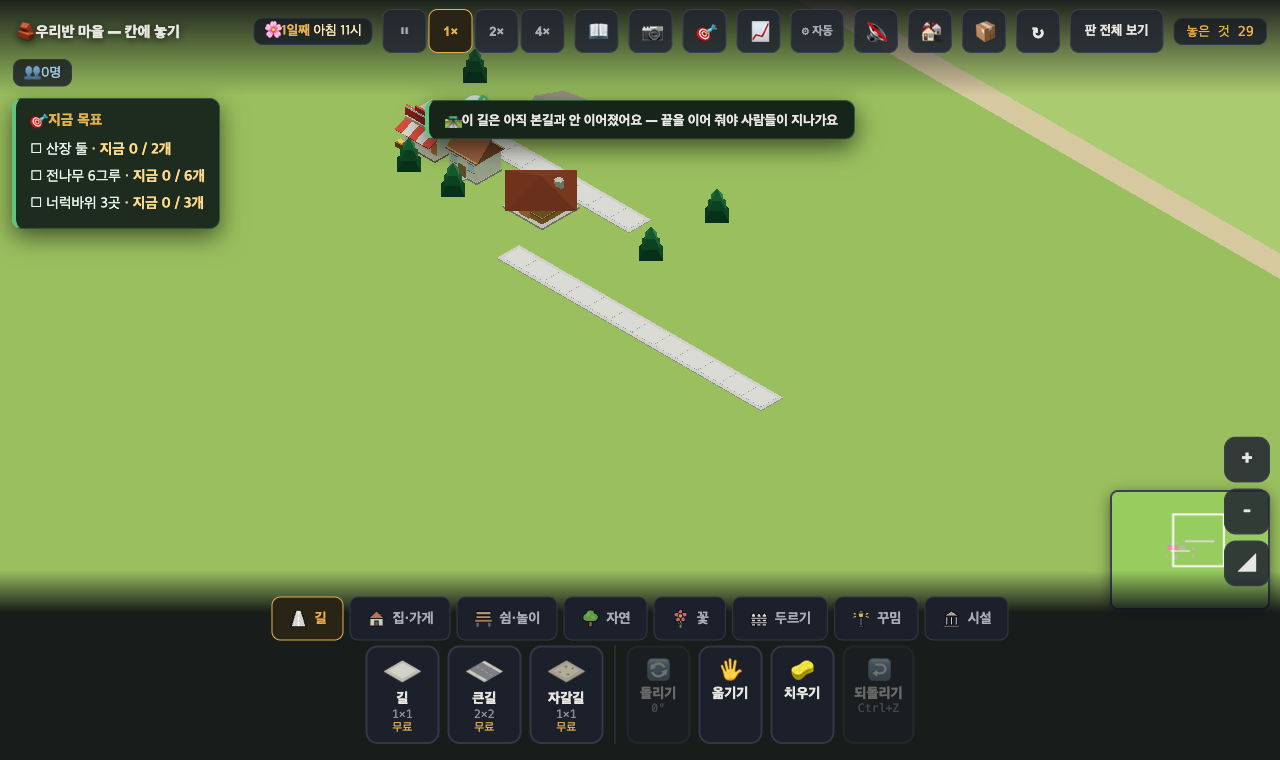
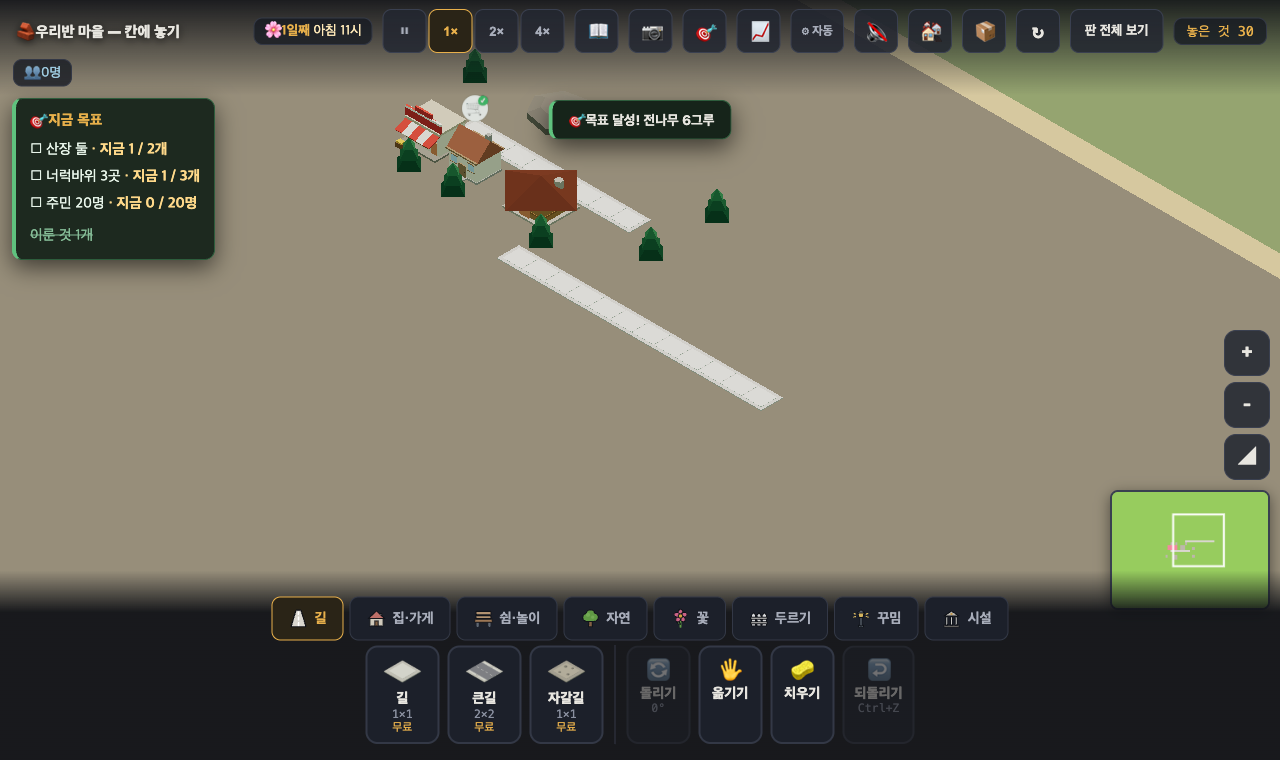
fix(village): 모습이 있는 판은 색을 곧바로 세운다 (MAC-SKIN)
제 진단이 한 겹 틀렸다. 색은 **안 먹는 게 아니라 하루(3분)에 걸쳐 스몄다** —
seasonTick 의 plotMat.color.lerp(...) 다. 보스가 15초 뒤에 다시 재서 갈랐다
("안 먹는다"와 "늦는다"는 한 번 더 재야 갈린다). 값은 제대로 들어가 있었고
화면만 늦었다.

city.json 때 '한계'로 적혀 있던 것이 테마 판에서는 결함이다 — 아이가 바닷가 판을
열고 몇 분 동안 초록 들판을 본다. 테마의 첫인상이 통째로 틀린다.

- stageSkin 이 SEASONS 를 간 뒤 plotMat.color·groundCol·SKY_DAY 를 **lerp 없이 한 번
  대입**하고 paintBoard() 를 한 번 부른다. 원래 줄 수정 1줄(그 줄 끝에 이어 붙였다).
- **모습이 있는 판에서만**이다 — 계절이 저절로 도는 판은 이 줄을 안 지난다.

잰 값(연 직후 한 프레임 · __season().잔디)
| 판 | 판이 바란 색 | 전(연 직후) | 후(연 직후) |
|---|---|---|---|
| sea | #ddd0a4 | #a6cd6f | **#ddd0a4** |
| mountain | #8a9a6b | (초록) | **#8a9a6b** |
| farm | #c9bd6a | #9eca5f | **#c9bd6a** |
| 기본 마을 | (없음) | #99cd60 → 15초 뒤 #a3d368 | **그대로 번진다**(한 픽셀도 안 달라짐) |

pop88 로 옛 index.html 과 같은 시드에서 나란히: 인구·사는집·웃는집·붐빔집·일먼집
다섯 지표가 **전부 같다**. 실화면으로도 기본 마을이 그대로 번지는 것을 확인했다.

backlog 21 을 닫고 22 를 열었다 — **미니맵은 아직 판의 모습 색을 안 따른다**
(화면은 모래빛인데 미니맵만 초록 · 제 색 소스를 따로 쓴다).

verify-safety PASS 18·REVIEW 1·FAIL 0 · paint 194 · stages 100 · module OK ·
실화면 콘솔 0.

diff --git a/village/index.html b/village/index.html
@@ -9813,7 +9813,14 @@ function stageSkin(def) {
   if (no != null) { const base = { ...SEASONS[no] }; SEASONS.forEach(s => Object.assign(s, base)); VSKIN.계절고정 = S.계절; }
   const g = skinHex(S.풀), gr = skinHex(S.바닥);
   SEASONS.forEach(s => { if (g != null) s.grass = g; if (gr != null) s.ground = gr; });
-  VSKIN.stats.색 = { 계절: VSKIN.계절고정, 풀: g == null ? null : '#' + g.toString(16), 바닥: gr == null ? null : '#' + gr.toString(16) }; }
+  VSKIN.stats.색 = { 계절: VSKIN.계절고정, 풀: g == null ? null : '#' + g.toString(16), 바닥: gr == null ? null : '#' + gr.toString(16) };
+  /* [MAC-SKIN] **모습이 있는 판은 색을 곧바로 세운다.** seasonTick 은 바닥·하늘을 하루(3분)에 걸쳐 lerp 하므로,
+     그대로 두면 아이가 바닷가 판을 열고 몇 분 동안 **초록 들판**을 본다(보스 실측: 연 직후 #a6cd6f · 15초 뒤 #adcd75 — 바란 색은 #ddd0a4).
+     테마의 첫인상이 통째로 틀리는 자리다. 여기서 한 번만 lerp 없이 대입하고 판을 다시 칠한다.
+     ⚠ 계절이 저절로 도는 판(모습 없는 판)은 이 줄을 안 지난다 — 거기서는 하루에 걸친 번짐이 기능이다. */
+  const S0 = SEASONS[no != null ? no : 0];
+  plotMat.color.setHex(S0.grass); groundCol.setHex(S0.ground); SKY_DAY.setHex(S0.sky);
+  paintBoard(); VSKIN.stats.색세움 = true; }
 window.__skin = () => ({ 판: STAGE.id || null, 계절고정: VSKIN.계절고정, ...VSKIN.stats, ORDER에: VSKIN.stats.더한것.filter(k => ORDER.indexOf(k) >= 0), 지금탭: typeof curGroup === 'string' ? curGroup : null,
   새종류: VSKIN.stats.더한것.map(k => ({ 이름: k, 글: K[k].nm, 묶음: K[k].grp, 칸: [K[k].w, K[k].h], 조각: K[k].parts.length })) });
 function stageApplyEarly(def) {   // 목표·건물 — 부팅(트레이·목표판) 전에

diff --git a/docs/village_backlog.md b/docs/village_backlog.md
@@ -31,7 +31,8 @@
 | 12 | **B2 · 🖐 로 시설을 두 칸 옮기면 필요가 깨지는데 그 자리에서 말이 없다**(한 칸은 안 깨진다) | 10회 B2 | 옮기기 뒤 필요 판정이 바뀌는 순간을 잡는 훅이 없다 | 엔진 4번과 함께 보면 싸다 |
 | 13 | **B3 · 숙제 둘이 한꺼번에 뜬다** — "길이 붐벼요" 4채와 "가까운 일터가 꽉 찼어요" 4채가 동시에, 무엇부터 할지 도움이 없다 | 10회 B3 · 60줄 | 순서를 정하려면 '무엇이 더 급한가' 규칙이 필요하다(새 판정) | 아이가 실제로 헤매는 것이 관찰되면 |
 | 20 | **테마마다 떠오른 '관계' 후보** — 바닷가: 고깃배·어시장·해수욕장 · 산지: 비탈(높이차)·계단밭·케이블카·산나물 · 공통: 그 지형에서만 나는 것을 다른 마을로 보내기 | 테마 둘을 만들며(#807) | 보스 지시로 **이번엔 옷만** — 관계는 `docs/village_city_dictionary.md` 에서 한꺼번에 정한다 | 관계 사전이 서면 |
-| 21 | **판 파일의 `모습` 중 `풀`·`바닥` 색이 화면에 안 먹는다** — `계절` 은 먹는데 색만 안 먹는다. farm·city 도 같다(기존 결함 · 내 새 판 탓이 아니다). 실측: farm 판 파일 `#c9bd6a` → 실제 잔디 `#9eca5f` · sea `#ddd0a4` → `#a1cc69` · mountain `#8a9a6b` → `#96c760` | 테마 둘을 만들며(#807) | 고치려면 index.html 을 건드려야 하는데 이번 묶음은 **판 파일만**이 조건이었다 | 보스가 고칠 자리를 정하면 — 테마의 절반(색)이 이것에 걸려 있다 |
+| 22 | **미니맵은 판의 모습 색을 안 따른다** — 바닷가·산지 판에서 화면은 모래빛·돌빛인데 오른쪽 아래 미니맵만 초록이다 | 테마 색을 세우며(#808) | 미니맵은 제 색 소스를 따로 쓴다 · 작은 어긋남이고 이번 조건은 '연 직후 잔디색'이었다 | 테마 판을 실제 수업에 쓸 때 |
+| ~~21~~ | ~~**판 파일의 `모습` 중 `풀`·`바닥` 색이 화면에 안 먹는다**~~ — `계절` 은 먹는데 색만 안 먹는다. farm·city 도 같다(기존 결함 · 내 새 판 탓이 아니다). 실측: farm 판 파일 `#c9bd6a` → 실제 잔디 `#9eca5f` · sea `#ddd0a4` → `#a1cc69` · mountain `#8a9a6b` → `#96c760` | 테마 둘을 만들며(#807) | 고치려면 index.html 을 건드려야 하는데 이번 묶음은 **판 파일만**이 조건이었다 | **→ #808 로 고쳤다.** 안 먹는 게 아니라 `seasonTick` 이 하루(3분)에 걸쳐 lerp 하는 것이었다(보스가 다시 재서 갈랐다 — "안 먹는다"와 "늦는다"는 한 번 더 재야 갈린다). 모습이 있는 판은 연 직후 한 번 대입한다 |
 | 18 | **town3: 놓을 것 다섯이 세 탭에 흩어져 있다** — 목표는 다섯을 한 줄로 부르는데 상자는 '집·가게'·'쉼·놀이'·'시설' 세 군데다 | 창조자 19회 ⓑ21 | 판 파일이 탭을 다시 묶으려면 트레이 구조를 건드려야 한다(backlog 9 와 같은 자리) · 다음 묶음(테마)을 밀어낼 무게가 아니다(보스 판단) | 수업에서 '어디 있는지 못 찾겠다'가 실제로 나오면 |
 | 19 | **빈 탭(두르기·꾸밈)에 안내가 없다** — #789 로 고친 것은 정치 판 전용(`[MAC-VOTE]` 안)이라 town3 에는 안 온다 | 창조자 19회 ⓑ22 | **판 파일이 주는 말**로 만들어야 어느 판이든 쓴다(그대로 베끼면 판마다 같은 코드가 는다) — 설계가 필요하고 지금은 테마가 먼저다 | 판이 셋 이상 빈 탭을 갖게 되면 |
 | 16 | **프로토 판에서 과제를 다시 볼 곳이 없다** — 판 카드를 닫으면 과제 셋(찾기·바꾸기·말하기)을 다시 볼 자리가 없다. 🎯 목표판은 비어 있다(프로토는 셈으로 판정할 목표가 없다) | 프로토 판 만들며(#761) | 프로토는 **버릴 셈으로 만드는 시험**이라 새 UI 를 더하지 않기로 했다 | 관찰에서 '무엇을 하랬는지 잊었다'가 나오면 |
